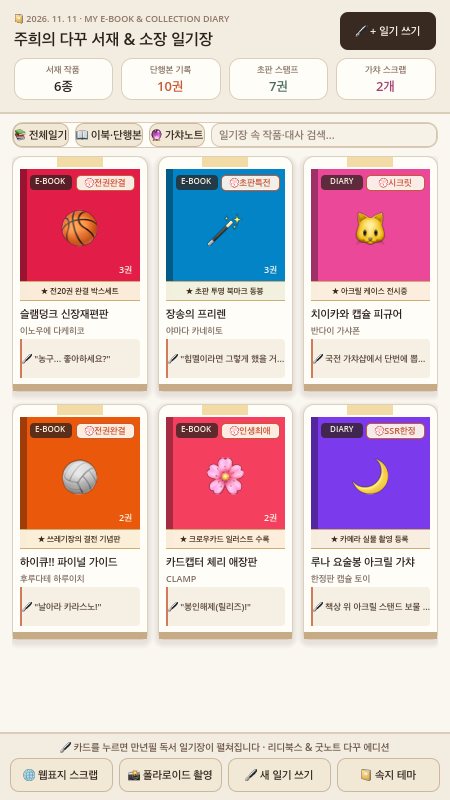
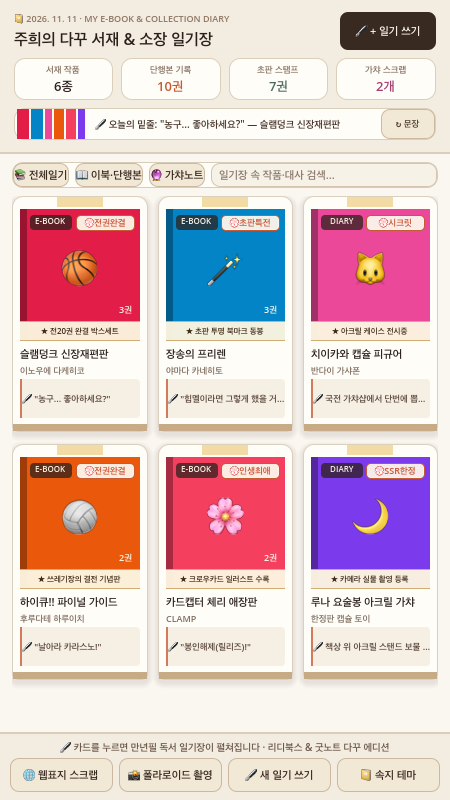
feat(game02): Sprint 9 mini E-Book spine shelf, today's quote cycler & Moleskine AddModal

diff --git a/game02/index.html b/game02/index.html
@@ -159,6 +159,22 @@
                     </div>
                 </div>
             </div>
+
+            <!-- Sprint 9: Mini E-Book Spine Shelf & Today's Underlined Quote Cycler -->
+            <div class="mt-4 pt-3 border-t border-dashed border-[#e2d6c5] flex flex-col sm:flex-row sm:items-center justify-between gap-3">
+                <div class="flex items-center gap-3">
+                    <span class="text-[11px] font-bold text-[#786b63] shrink-0">📚 내 책등 선반:</span>
+                    <div id="mini-spine-shelf" class="flex items-end gap-1 h-7 px-2 py-0.5 bg-[#f3ece1] rounded-lg border border-[#dfd3c3]"></div>
+                </div>
+                <div class="flex items-center justify-between sm:justify-end gap-2 flex-1">
+                    <span id="today-quote-banner" class="serif-font text-xs text-[#5c4938] italic truncate">
+                        🖋 오늘의 밑줄: "농구... 좋아하세요?" — 슬램덩크 신장재편판
+                    </span>
+                    <button onclick="cycleTodayQuote()" class="px-2.5 py-1 rounded-lg bg-[#f3ece1] hover:bg-[#e5dac9] border border-[#d6c7b2] text-[#2c221e] text-[11px] font-bold shrink-0 cursor-pointer">
+                        ↻ 다른 문장
+                    </button>
+                </div>
+            </div>
         </section>
 
         <!-- 2. Notebook Index Tabs & Search -->
@@ -409,6 +425,33 @@
                 rowWrap.appendChild(ledge);
                 container.appendChild(rowWrap);
             }
+
+            // Render Mini E-Book Spine Shelf
+            const spineShelf = document.getElementById('mini-spine-shelf');
+            if (spineShelf) {
+                spineShelf.innerHTML = ITEMS.map(it => {
+                    const w = Math.min(14, Math.max(8, 6 + (it.volumes ? it.volumes.length : 1) * 2));
+                    return `<div onclick="openJournalModal('${it.id}')" title="${it.title}" style="width:${w}px;background:${it.color}" class="h-5 rounded-t-xs cursor-pointer hover:opacity-80 shadow-2xs"></div>`;
+                }).join('');
+            }
+        }
+
+        let quoteIdx = 0;
+        function cycleTodayQuote() {
+            const allQuotes = [];
+            ITEMS.forEach(it => {
+                if (it.volumes && it.volumes.length) {
+                    it.volumes.forEach(v => {
+                        if (v.quote) allQuotes.push(`🖋 오늘의 밑줄: "${v.quote}" — ${it.title}`);
+                    });
+                } else if (it.memo) {
+                    allQuotes.push(`🖋 오늘의 밑줄: "${it.memo}" — ${it.title}`);
+                }
+            });
+            if (!allQuotes.length) return;
+            quoteIdx = (quoteIdx + 1) % allQuotes.length;
+            const el = document.getElementById('today-quote-banner');
+            if (el) el.textContent = allQuotes[quoteIdx];
         }
 
         function openJournalModal(id) {

diff --git a/game02/SPRINT_LOG.md b/game02/SPRINT_LOG.md
@@ -5,6 +5,21 @@
 
 ---
 
+## 🚀 [Sprint 9] 미니 책등 진열대(`SpineShelf`) & 오늘의 만년필 밑줄 배너(`TodayQuote`) + 새 일기 쓰기 모달(`AddModal`) 전면 개편
+- **시각**: 2026-11-12 02:35 KST
+- **1. 다꾸러 3인 VOC (수집러 A · 가챠러 B · 미니멀러 C)**
+  - **북적북적·이북 유저 A**: *"내 서재에 꽂힌 책들의 책등(Spine)이 권수 두께에 비례해 알록달록하게 나란히 꽂혀 있는 '미니 책등 진열대'와 '오늘의 밑줄 문장' 배너가 상단에 있으면 이북 서재 + 독서노트 감성이 훨씬 깊어질 것 같아요!"*
+  - **다꾸러 B**: *"`+ 일기 쓰기` 버튼을 눌렀을 때 나오는 `AddModal`도 만년필 일기장 톤앤매너로 바꾸고, 표지 북커버 색상 6종(`크림슨`, `코발트`, `테라코타`, `로즈`, `포레스트`, `바이올렛`)과 첫 밑줄 명대사를 직접 적을 수 있게 해주세요!"*
+- **2. 기획 & UI/UX & Godot 4.6 개발 내역**
+  - **미니 책등 진열대(`SpineShelfRow`)**: 보유 작품들의 고유 컬러와 소장 권수 두께를 반영한 미니 책등 바를 상단 배너 좌측에 동적 렌더링 (`main.tscn`, `main_view.gd`, `index.html`)
+  - **오늘의 밑줄 문장 순환기(`TodayQuoteLabel` & `NextQuoteBtn`)**: 내 일기장에 기록된 모든 명대사·감상평을 `"↻ 문장"` 버튼으로 순환 감상 가능
+  - **새 독서·다꾸 일기장 모달(`add_modal.tscn` & `add_modal.gd`)**: 6종 북커버 컬러 스와치 선택기(`select_color`) 및 첫 페이지 밑줄 명대사 입력창(`QuoteInput`) 탑재
+- **3. TDD & QA 검증**
+  - `tests/test_main_integration.gd`에 `spine_shelf_row`, `_on_next_quote_btn_pressed()`, `add_modal.select_color("#15803d")` 통합 검증 추가 → 3개 테스트 스위트 100% PASS
+  - Metal 렌더러 최신 스크린샷(`godot_app_screen.png`, `godot_modal_screen.png`) 캡처 및 GitHub 푸시 완료
+
+---
+
 ## 🚀 [Sprint 8] 일기장 내 고무 인장 스탬프 피커(`💮인장`) & 만년필 밑줄 문장 편집기(`🖋밑줄 저장`) 탑재
 - **시각**: 2026-11-12 00:31 KST
 - **1. 다꾸러 3인 VOC (수집러 A · 가챠러 B · 미니멀러 C)**
